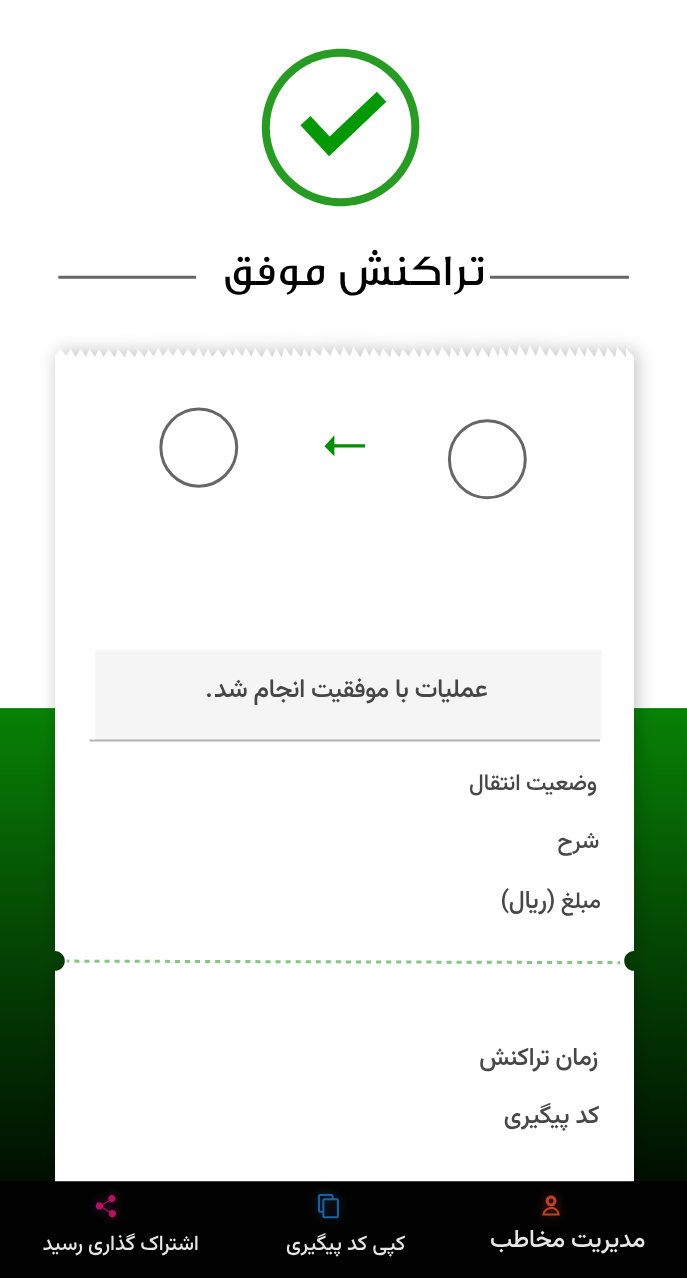
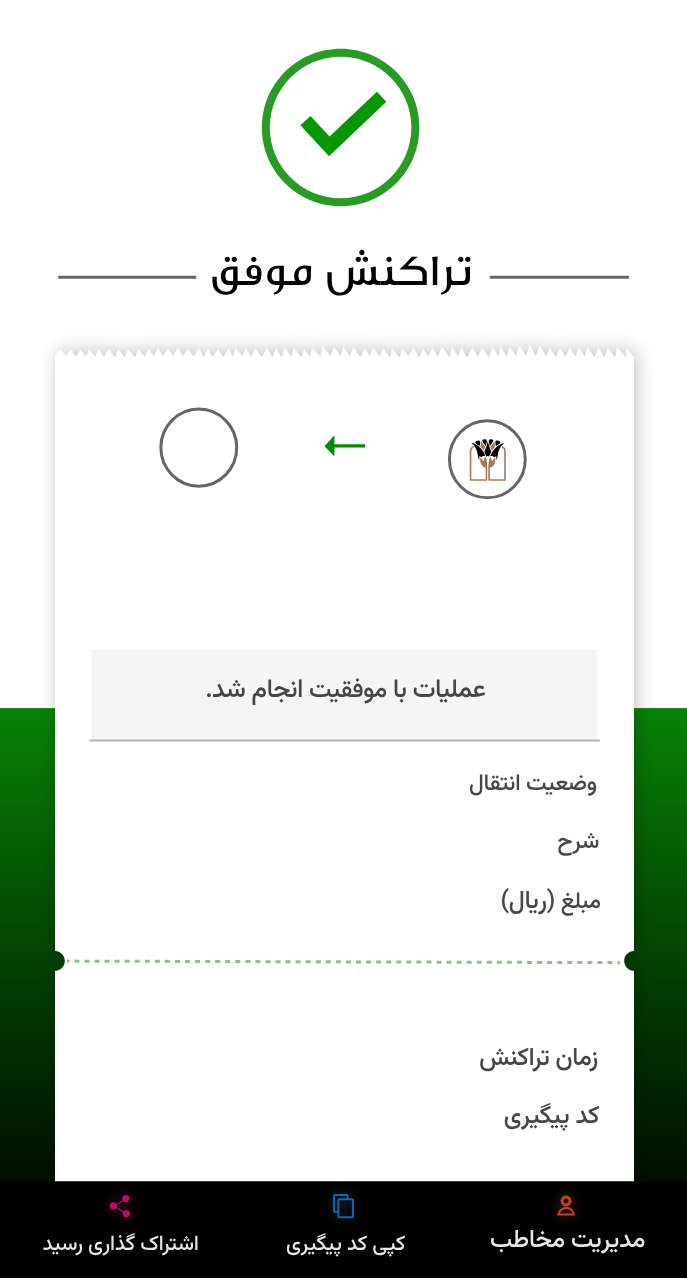
fix some errors

diff --git a/main.py b/main.py
@@ -283,7 +283,7 @@ async def handle_source_account(update: Update, context):
         return GET_DEST_IBAN
 
     if context.user_data['bank_type'] == 'ayandeh':
-        await update.message.reply_text('شماره شبا مقصد را وارد کنید:')
+        await update.message.reply_text('شماره شبا مقصد را بدون ستاره و به صورت کامل وارد کنید:')
         return GET_DEST_IBAN
 
     if context.user_data['bank_type'] == 'ayandeh_paya':
@@ -684,7 +684,7 @@ async def handle_get_dest_name(update: Update, context):
         await update.message.reply_text('نام ارسال کننده را وارد کنید:')
         return GET_SENDER_NAME
     if context.user_data['bank_type'] == 'parsian':
-        await update.message.reply_text('توضیحات را وارد کنید:')
+        await update.message.reply_text('شرح را وارد کنید:')
         return GET_DESCRIPTION
 
     if context.user_data['bank_type'] == 'pasargad_paya':
@@ -814,8 +814,8 @@ async def handle_get_sender_name(update: Update, context):
         return GET_DESCRIPTION
 
     if context.user_data['bank_type'] == 'parsian':
-        await update.message.reply_text('شرح را وارد کنید:')
-        return GET_DESCRIPTION
+        await update.message.reply_text('نام گیرنده را وارد کنید:')
+        return GET_DEST_NAME
 
     if context.user_data['bank_type'] == 'shahr':
         await update.message.reply_text('بابت (علت) را وارد کنید:')
@@ -1789,7 +1789,7 @@ async def create_and_send_receipt(update: Update, context: ContextTypes.DEFAULT_
             'receiver': convert_numbers_to_farsi(context.user_data['receiver']),
             'sender': convert_numbers_to_farsi(context.user_data['sender']),
             'tracking_code': convert_numbers_to_farsi(context.user_data['tracking_code']),
-            'iban': convert_numbers_to_farsi(context.user_data['iban']),
+            'iban': replace_star_ayandeh(convert_numbers_to_farsi(context.user_data['iban'])),
             'description': convert_numbers_to_farsi(context.user_data['description']),
             'current_directory': current_directory,
             'bank_icon': get_bank_icon(context.user_data['iban']),
@@ -2374,6 +2374,12 @@ def convert_number_to_words(number):
     return result
 
 
+def replace_star_ayandeh(iban):
+    if len(iban) < 26:
+        return iban
+    return iban[:2] + ('*' * 7) + iban[-5:]
+
+
 def mask_string(s):
     if len(s) <= 4:
         return s
@@ -2436,7 +2442,7 @@ def get_bank_icon(iban, bank=''):
     if bank == 'saderat' \
             or bank == 'pasargad_shaba':
         ib = 'IR' + ib
-    elif len(ib) < 26:
+    elif len(ib) < 10:
         return ''
     ib = ib.replace(" ", "").replace("-", "")
     return bank_from_codes(ib[4:7])
